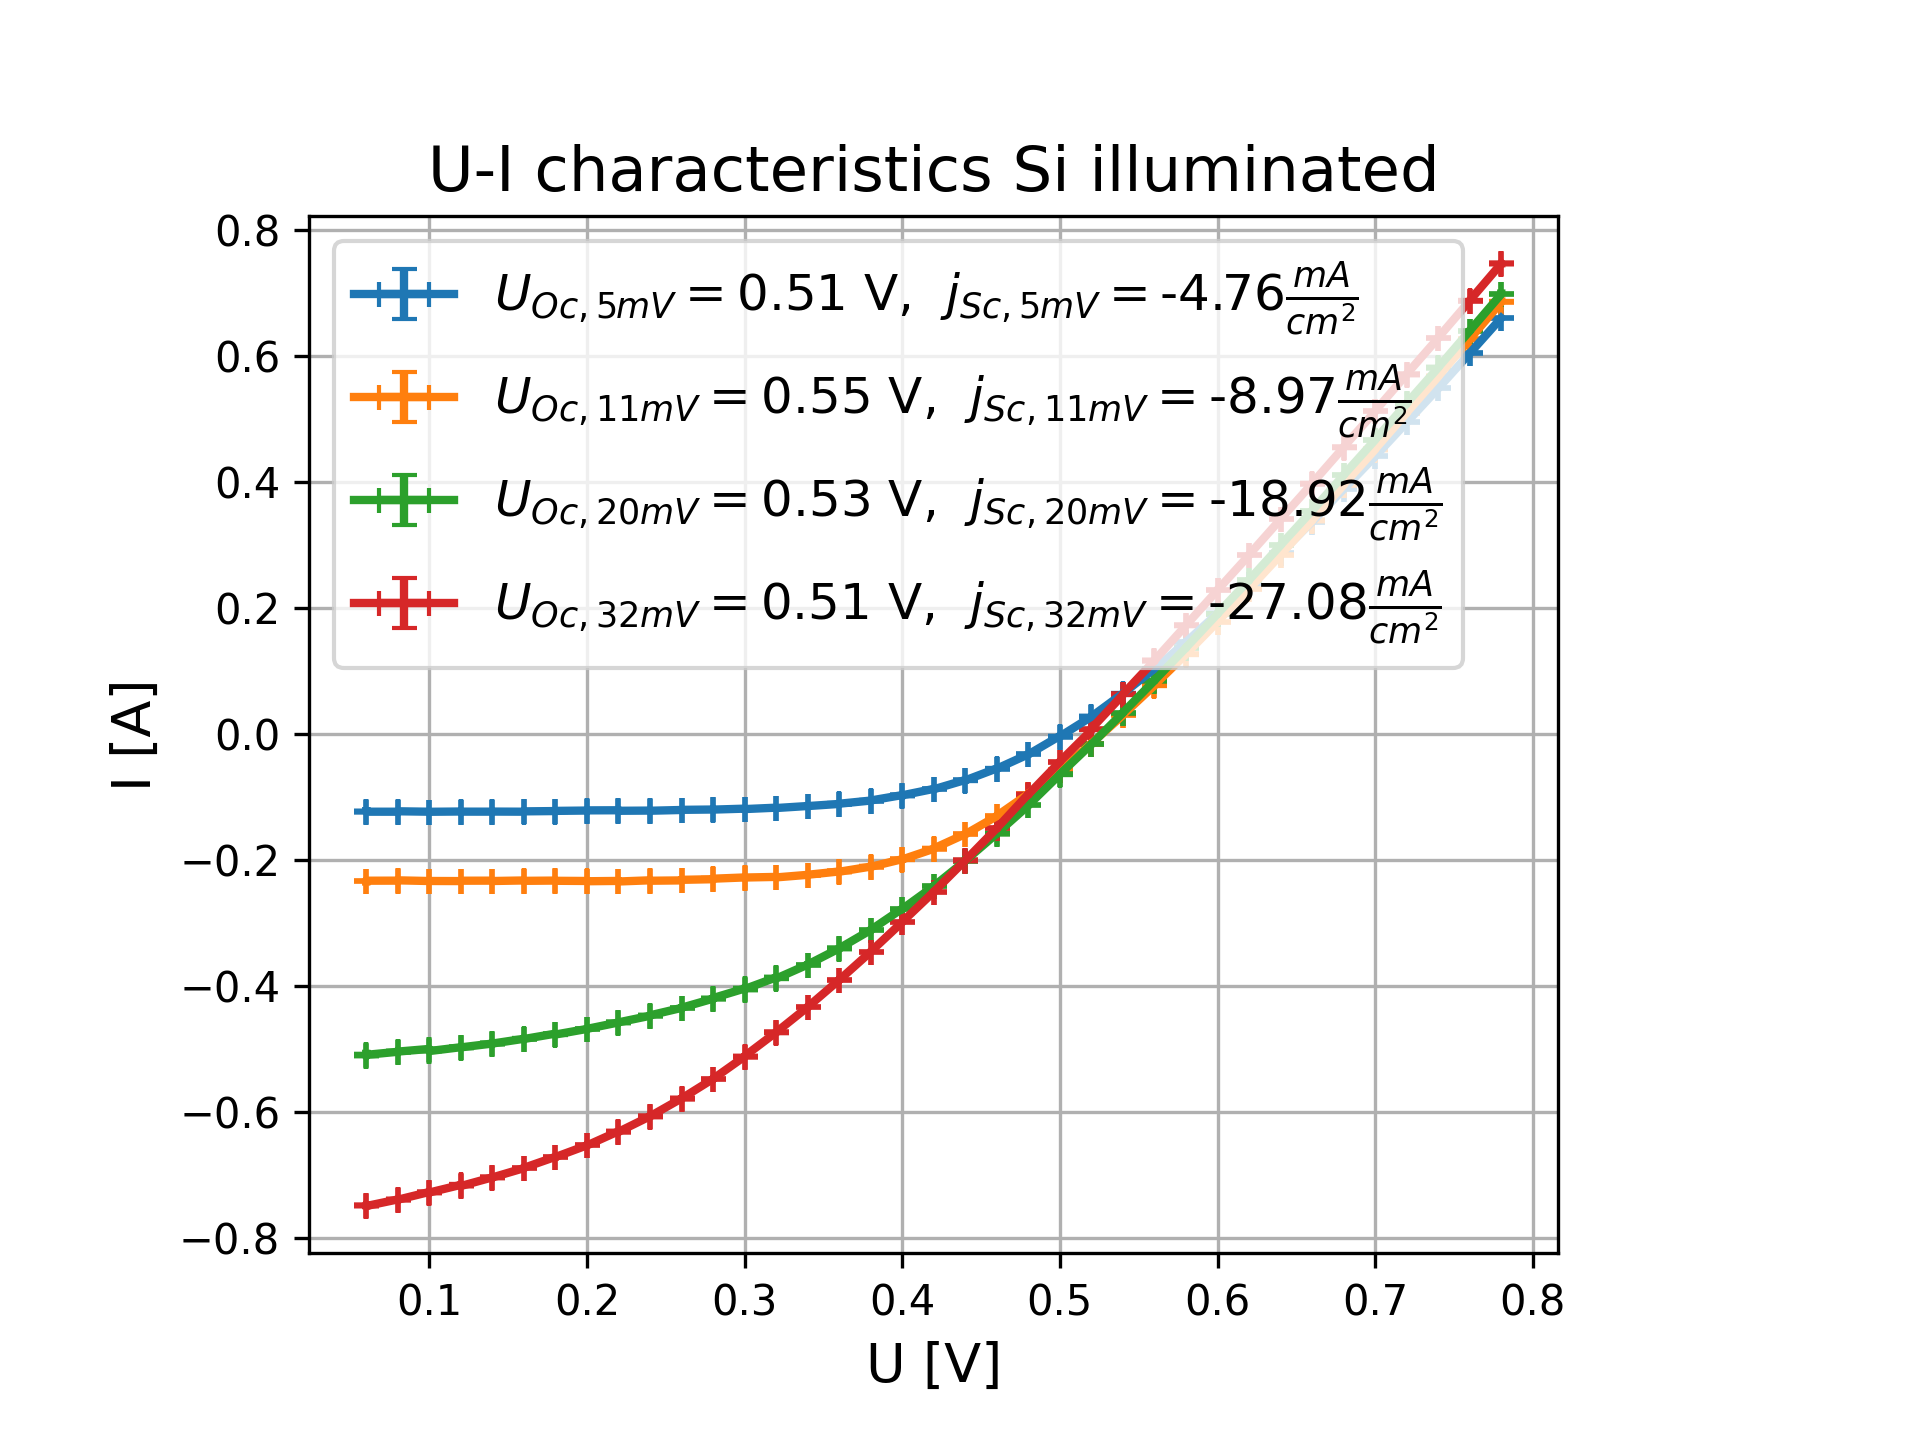
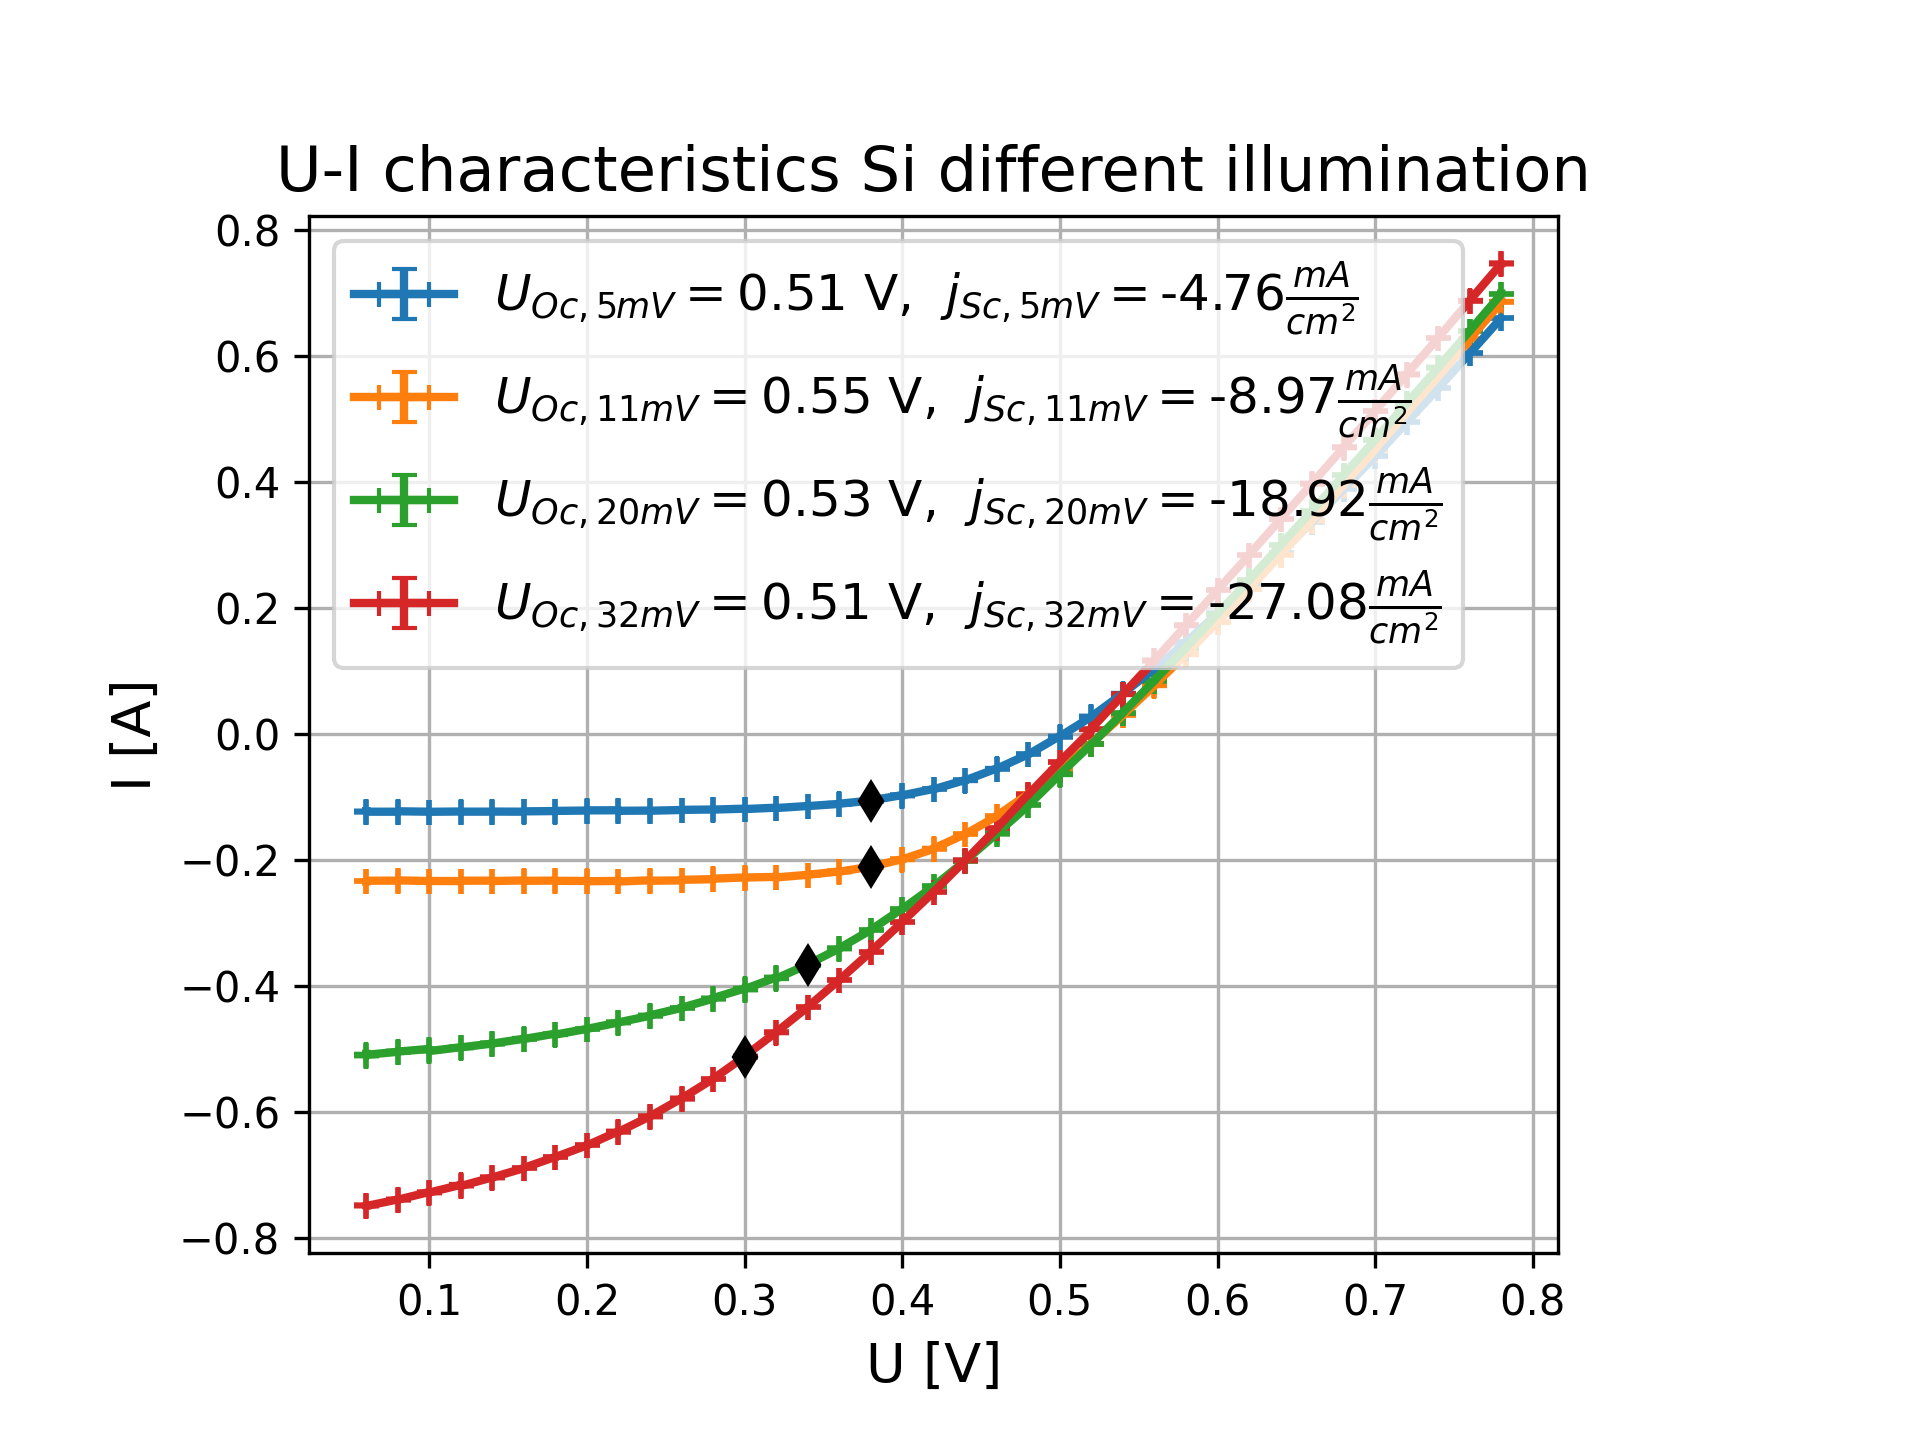
Das ist mein Code.

diff --git a/Auswertung.py b/Auswertung.py
@@ -111,7 +111,7 @@ plt.savefig('Plots/Dunkel_Si.png', dpi=300)
 plt.clf()
 
 
-#Plot Characteristicsn dunkel
+#Plot Characteristics dunkel
 Ao1 = 0.06
 Ao2 =  25
 Aa = 26
@@ -201,7 +201,7 @@ for i in range(570, 770):
         j = i
 I_MPP = a_an_11mV["current / A"][j]
 U_MPP = a_an_11mV["voltage / V"][j]
-FF = -P[j]/U_OC*j_sc*Aa
+FF = -P[j]/(U_OC*j_sc*Aa)
 p_ein = 100*11/33.2
 Wirkungsgrad = (P[j]*1e3/Aa)/p_ein            #sollte 0.22 sein S.10
 
@@ -229,6 +229,7 @@ plt.savefig('Plots/Hell_Si.png', dpi=300)
 plt.clf()
 
 
+
 #_______B____________
 
 
@@ -254,6 +255,36 @@ j_sc_20 = b_20["current / A"][570]/Aa
 U_OC_32 = U1_32 + (U2_32-U1_32) * 0.33
 j_sc_32 = b_sonne["current / A"][570]/Aa
 
+#Finde I_MPP für verschiedene Beleuchtungen
+max = 0
+j = 0
+P = b_5["voltage / V"]*(-b_5["current / A"])
+for i in range(530, 760):
+    if P[i] > max:
+        max = P[i]
+        j = i
+I_MPP_5 = b_5["current / A"][j]
+U_MPP_5 = b_5["voltage / V"][j]
+
+max = 0
+j = 0
+P = -b_20["voltage / V"]*b_20["current / A"]
+for i in range(530, 760):
+    if P[i] > max:
+        max = P[i]
+        j = i
+I_MPP_20 = b_20["current / A"][j]
+U_MPP_20 = b_20["voltage / V"][j]
+
+max = 0
+j = 0
+P = -b_sonne["voltage / V"]*b_sonne["current / A"]
+for i in range(530, 760):
+    if P[i] > max:
+        max = P[i]
+        j = i
+I_MPP_32 = b_sonne["current / A"][j]
+U_MPP_32 = b_sonne["voltage / V"][j]
 
 #Plot Si Intensitäten
 plt.errorbar(b_5["voltage / V"][530:900], b_5["current / A"][530:900], xerr = U_err, yerr = I_err,\
@@ -264,8 +295,12 @@ plt.errorbar(b_20["voltage / V"][530:900], b_20["current / A"][530:900], xerr = 
             linewidth = 2, capsize=3) #0.6 Sonnen
 plt.errorbar(b_sonne["voltage / V"][530:900], b_sonne["current / A"][530:900], xerr = U_err, yerr = I_err,\
             linewidth = 2, capsize=3) #Sonne
+plt.errorbar(U_MPP_5, I_MPP_5, fmt = "d", color = "black")
+plt.errorbar(U_MPP, I_MPP, fmt = "d", color = "black")
+plt.errorbar(U_MPP_20, I_MPP_20, fmt = "d", color = "black")
+plt.errorbar(U_MPP_32, I_MPP_32, fmt = "d", color = "black")
 
-plt.title('U-I characteristics Si illuminated', fontsize = 15)
+plt.title('U-I characteristics Si different illumination', fontsize = 15)
 '''plt.text( 0.5, -0.2, "$U_{Oc,5mV} = $" + str(round(U_OC_5, 3)) + " V", fontsize = 12)   #U_OC
 plt.text( 0.5, -0.3, "$j_{Sc,5mV} = $" + str(round(j_sc_5*1e3, 3)) + r"$\frac{mA}{cm^2}$", fontsize = 12)   #j_sc
 plt.text( 0.5, -0.4, "$U_{Oc, 11mV} = $" + str(round(U_OC, 3)) + " V", fontsize = 12)   #U_OC
@@ -339,7 +374,7 @@ U2_1 = c1_11mV["voltage / V"][350]
 
 
 U_OC_1 = U1_1 + (U2_1-U1_1) * 0.5           #lineare Interpolation U_OC
-j_sc_1 = c1_11mV["current / A"][150]/Aa
+j_sc_1 = c1_11mV["current / A"][150]/Aa*6
 P_1 = c1_11mV["voltage / V"]*(-c1_11mV["current / A"])
 
 #Finde I_MPP
@@ -351,7 +386,7 @@ for i in range(150, 349):
         j_1 = i
 I_MPP_1 = c1_11mV["current / A"][j_1]
 U_MPP_1 = c1_11mV["voltage / V"][j_1]
-FF_1 = -P_1[j_1]/U_OC_1*j_sc_1*Aa*6
+FF_1 = -P_1[j_1]/(U_OC_1*c1_11mV["current / A"][80])
 p_ein = 100*11/33.2
 Wirkungsgrad_1 = (P_1[j_1]*1e3/(Aa*6))/p_ein
 
@@ -362,7 +397,7 @@ U1_2 = r68_s2["voltage / V"][349]
 U2_2 = r68_s2["voltage / V"][350]
 
 U_OC_2 = U1_2 + (U2_2-U1_2) * 0.5           #lineare Interpolation U_OC
-j_sc_2 = r68_s2["current / A"][50]/Aa*6
+j_sc_2 = r68_s2["current / A"][80]/(Aa*6)
 P_2 = r68_s2["voltage / V"]*(-r68_s2["current / A"])
 
 #Finde I_MPP
@@ -374,7 +409,7 @@ for i in range(150, 349):
         j_2 = i
 I_MPP_2 = r68_s2["current / A"][j_2]
 U_MPP_2 = r68_s2["voltage / V"][j_2]
-FF_2 = -P_2[j_2]/U_OC_2*j_sc_2*Aa*6
+FF_2 = -P_2[j_2]/(U_OC_2*j_sc_2*Aa*6)
 p_ein = 100*11/33.2
 Wirkungsgrad_2 = (P_2[j_2]*1e3/(Aa*6))/p_ein
 
@@ -385,7 +420,7 @@ U1_3 = r68_s3["voltage / V"][344]
 U2_3 = r68_s3["voltage / V"][345]
 
 U_OC_3 = U1_3 + (U2_3-U1_3) * 0.5           #lineare Interpolation U_OC
-j_sc_3 = r68_s3["current / A"][50]/Aa*6
+j_sc_3 = r68_s3["current / A"][80]/(Aa*6)
 P_3 = r68_s3["voltage / V"]*(-r68_s3["current / A"])
 
 #Finde I_MPP
@@ -397,7 +432,7 @@ for i in range(150, 344):
         j_3 = i
 I_MPP_3 = r68_s3["current / A"][j_3]
 U_MPP_3 = r68_s3["voltage / V"][j_3]
-FF_3 = -P_3[j_3]/U_OC_3*j_sc_3*Aa*6
+FF_3 = -P_3[j_3]/(U_OC_3*j_sc_3*Aa*6)
 p_ein = 100*11/33.2
 Wirkungsgrad_3 = (P_3[j_3]*1e3/(Aa*6))/p_ein
 
@@ -408,7 +443,7 @@ U1_4 = r73_s2["voltage / V"][339]
 U2_4 = r73_s2["voltage / V"][340]
 
 U_OC_4 = U1_4 + (U2_4-U1_4) * 0.5           #lineare Interpolation U_OC
-j_sc_4 = r73_s2["current / A"][150]/Aa*6
+j_sc_4 = r73_s2["current / A"][150]/(Aa*6)
 P_4 = r73_s2["voltage / V"]*(-r73_s2["current / A"])
 
 #Finde I_MPP
@@ -420,7 +455,7 @@ for i in range(150, 339):
         j_4 = i
 I_MPP_4 = r73_s2["current / A"][j_4]
 U_MPP_4 = r73_s2["voltage / V"][j_4]
-FF_4 = -P_4[j_4]/U_OC_4*j_sc_4*Aa*6
+FF_4 = -P_4[j_4]/(U_OC_4*j_sc_4*Aa*6)
 p_ein = 100*11/33.2
 Wirkungsgrad_4 = (P_4[j_4]*1e3/(Aa*6))/p_ein
 
@@ -431,7 +466,7 @@ U1_Verb = c4_11verb["voltage / V"][218]
 U2_Verb = c4_11verb["voltage / V"][219]
 
 U_OC_Verb = U1_Verb + (U2_Verb-U1_Verb) * 0.5           #lineare Interpolation U_OC
-j_sc_Verb = c4_11verb["current / A"][50]/Aa*12
+j_sc_Verb = c4_11verb["current / A"][50]/(Aa*12)
 P_Verb = c4_11verb["voltage / V"]*(-c4_11verb["current / A"])
 
 #Finde I_MPP
@@ -443,7 +478,7 @@ for i in range(100, 218):
         j_Verb = i
 I_MPP_Verb = c4_11verb["current / A"][j_Verb]
 U_MPP_Verb = c4_11verb["voltage / V"][j_Verb]
-FF_Verb = -P_Verb[j_Verb]/U_OC_Verb*j_sc_Verb*Aa*12
+FF_Verb = -P_Verb[j_Verb]/(U_OC_Verb*j_sc_Verb*Aa*12)
 p_ein = 100*11/33.2
 Wirkungsgrad_Verb = (P_Verb[j_Verb]*1e3/(Aa*12))/p_ein
 
@@ -451,8 +486,8 @@ print("\n\n\nFolgende Werte erhalten wir für die Kurzschlussströme:\n", "j_1: 
 "\n j_4: ", j_sc_4, "\nj_Verb: ", j_sc_Verb)
 print("\n\nFolgende Werte erhalten wir für die Leerlaufspannungen:\n", "U_1: ", U_OC_1, "\n U_2: ", U_OC_2, "\n U_3: ", U_OC_3, \
 "\n U_4: ", U_OC_4, "\nU_Verb: ", U_OC_Verb)
-print("\n\nFolgende Werte erhalten wir für die Füllfaktoren:\n", "FF_1: ", FF_1, "\n FF_2: ", j_sc_2, "\n FF_3: ", j_sc_3, \
-"\n FF_4: ", j_sc_4, "\nFF_Verb: ", j_sc_Verb)
+print("\n\nFolgende Werte erhalten wir für die Füllfaktoren:\n", "FF_1: ", FF_1, "\n FF_2: ", FF_2, "\n FF_3: ", FF_3, \
+"\n FF_4: ", FF_4, "\nFF_Verb: ", FF_Verb)
 print("\n\nFolgende Werte erhalten wir für die Wirkungsgrade:\n", "Wirkungsgrad_1: ", Wirkungsgrad_1, "\n Wirkungsgrad_2: ", Wirkungsgrad_2, "\n Wirkungsgrad_3: ", Wirkungsgrad_3, \
 "\n Wirkungsgrad_4: ", Wirkungsgrad_4, "\nWirkungsgrad_Verb: ", Wirkungsgrad_Verb, "\n\n\n")
 
@@ -468,6 +503,13 @@ plt.errorbar(r73_s2["voltage / V"], r73_s2["current / A"], xerr = U_err, yerr = 
 
 plt.errorbar(c4_11verb["voltage / V"][50:219], c4_11verb["current / A"][50:219], xerr = U_err, yerr = I_err,\
             linewidth = 1, fmt = ".")
+
+plt.errorbar(U_MPP_1, I_MPP_1, fmt = "d", color = "black")                  #MPP plot
+plt.errorbar(U_MPP_2, I_MPP_2, fmt = "d", color = "black")
+plt.errorbar(U_MPP_3, I_MPP_3, fmt = "d", color = "black")
+plt.errorbar(U_MPP_4, I_MPP_4, fmt = "d", color = "black")
+plt.errorbar(U_MPP_Verb, I_MPP_Verb, fmt = "d", color = "black")
+
 
 plt.title('U-I characteristics for different wirings', fontsize = 15)
 plt.xlabel('U [V]' , fontsize = 13)
